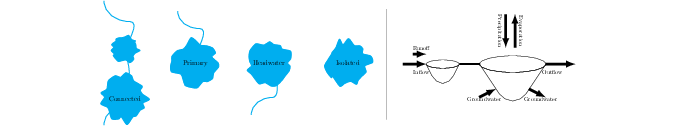
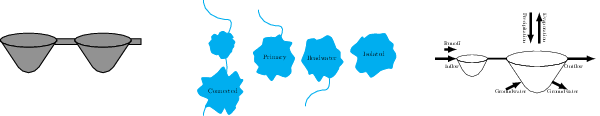
solve image array wrapping

diff --git a/tikz-lake-fig-doc.tex b/tikz-lake-fig-doc.tex
@@ -59,8 +59,8 @@
 %%%%%%%%%%%%%%%%%%%%%%%%%%%%%%%%%%%%%%%%%%%%%%%%%%%%%%%%%%%%%%%%%%%%%%%%%%%%%%%
 \section{2D Connectivity Diagram}
   \begin{frame}{2D Connectivity Diagram}
-  \begin{minipage}{\paperwidth}
-    \connectivitydiagram[0.8]
+  \begin{minipage}[c]{\paperwidth}
+    \connectivitydiagram[1]
   \end{minipage}
   \end{frame}
   
